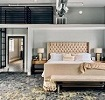
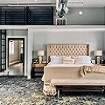
CSS mise en forme de Section2 et Aside

diff --git a/style.css b/style.css
@@ -1,7 +1,7 @@
 
 #Page_Complete
 {
-	width: 1000px;
+	width: 1050px;
 	margin: auto;
 }
 
@@ -186,11 +186,15 @@ header
 #Section2
 {
 	background-color: #F2F2F2;
+	width: 62%;
+	border-radius: 15px;
+	padding-top: 1px;
+	padding-bottom: 1px;
 }
 
 #Section2 h2
 {
-	margin-left: 40px;
+	margin-left: 25px;
 }
 
 #Section2 p
@@ -226,6 +230,8 @@ header
 	background-color: white;
     border: 3.5px solid white;
     border-radius: 12px;
+    margin-right: 0px;
+    margin-left: 25px;
 }
 
 .photo img
@@ -235,14 +241,21 @@ header
 
 
 
-
-
 /* ASIDE */
 
 
 #Aside
 {
 	background-color: #F2F2F2;
+	width: 33.5%;
+	border-radius: 15px;
+	padding-top: 1px;
+	padding-bottom: 1px;
+}
+
+#Aside h2
+{
+	margin-left: 25px;
 }
 
 
@@ -268,6 +281,7 @@ header
 .flex
 {
 	display: flex;
+	height: 105px;
 }
 
 

diff --git a/Reservia.html b/Reservia.html
@@ -147,7 +147,7 @@
 
 
 				<aside id="Aside">
-					<h2>Les Plus Populaires<i class="fas fa-chart-line"></i></h2>
+					<h2>Les Plus Populaires<i style="margin-left: 70px;" class="fas fa-chart-line"></i></h2>
 
 					<div class="aside">
 						<figure class="flex">
